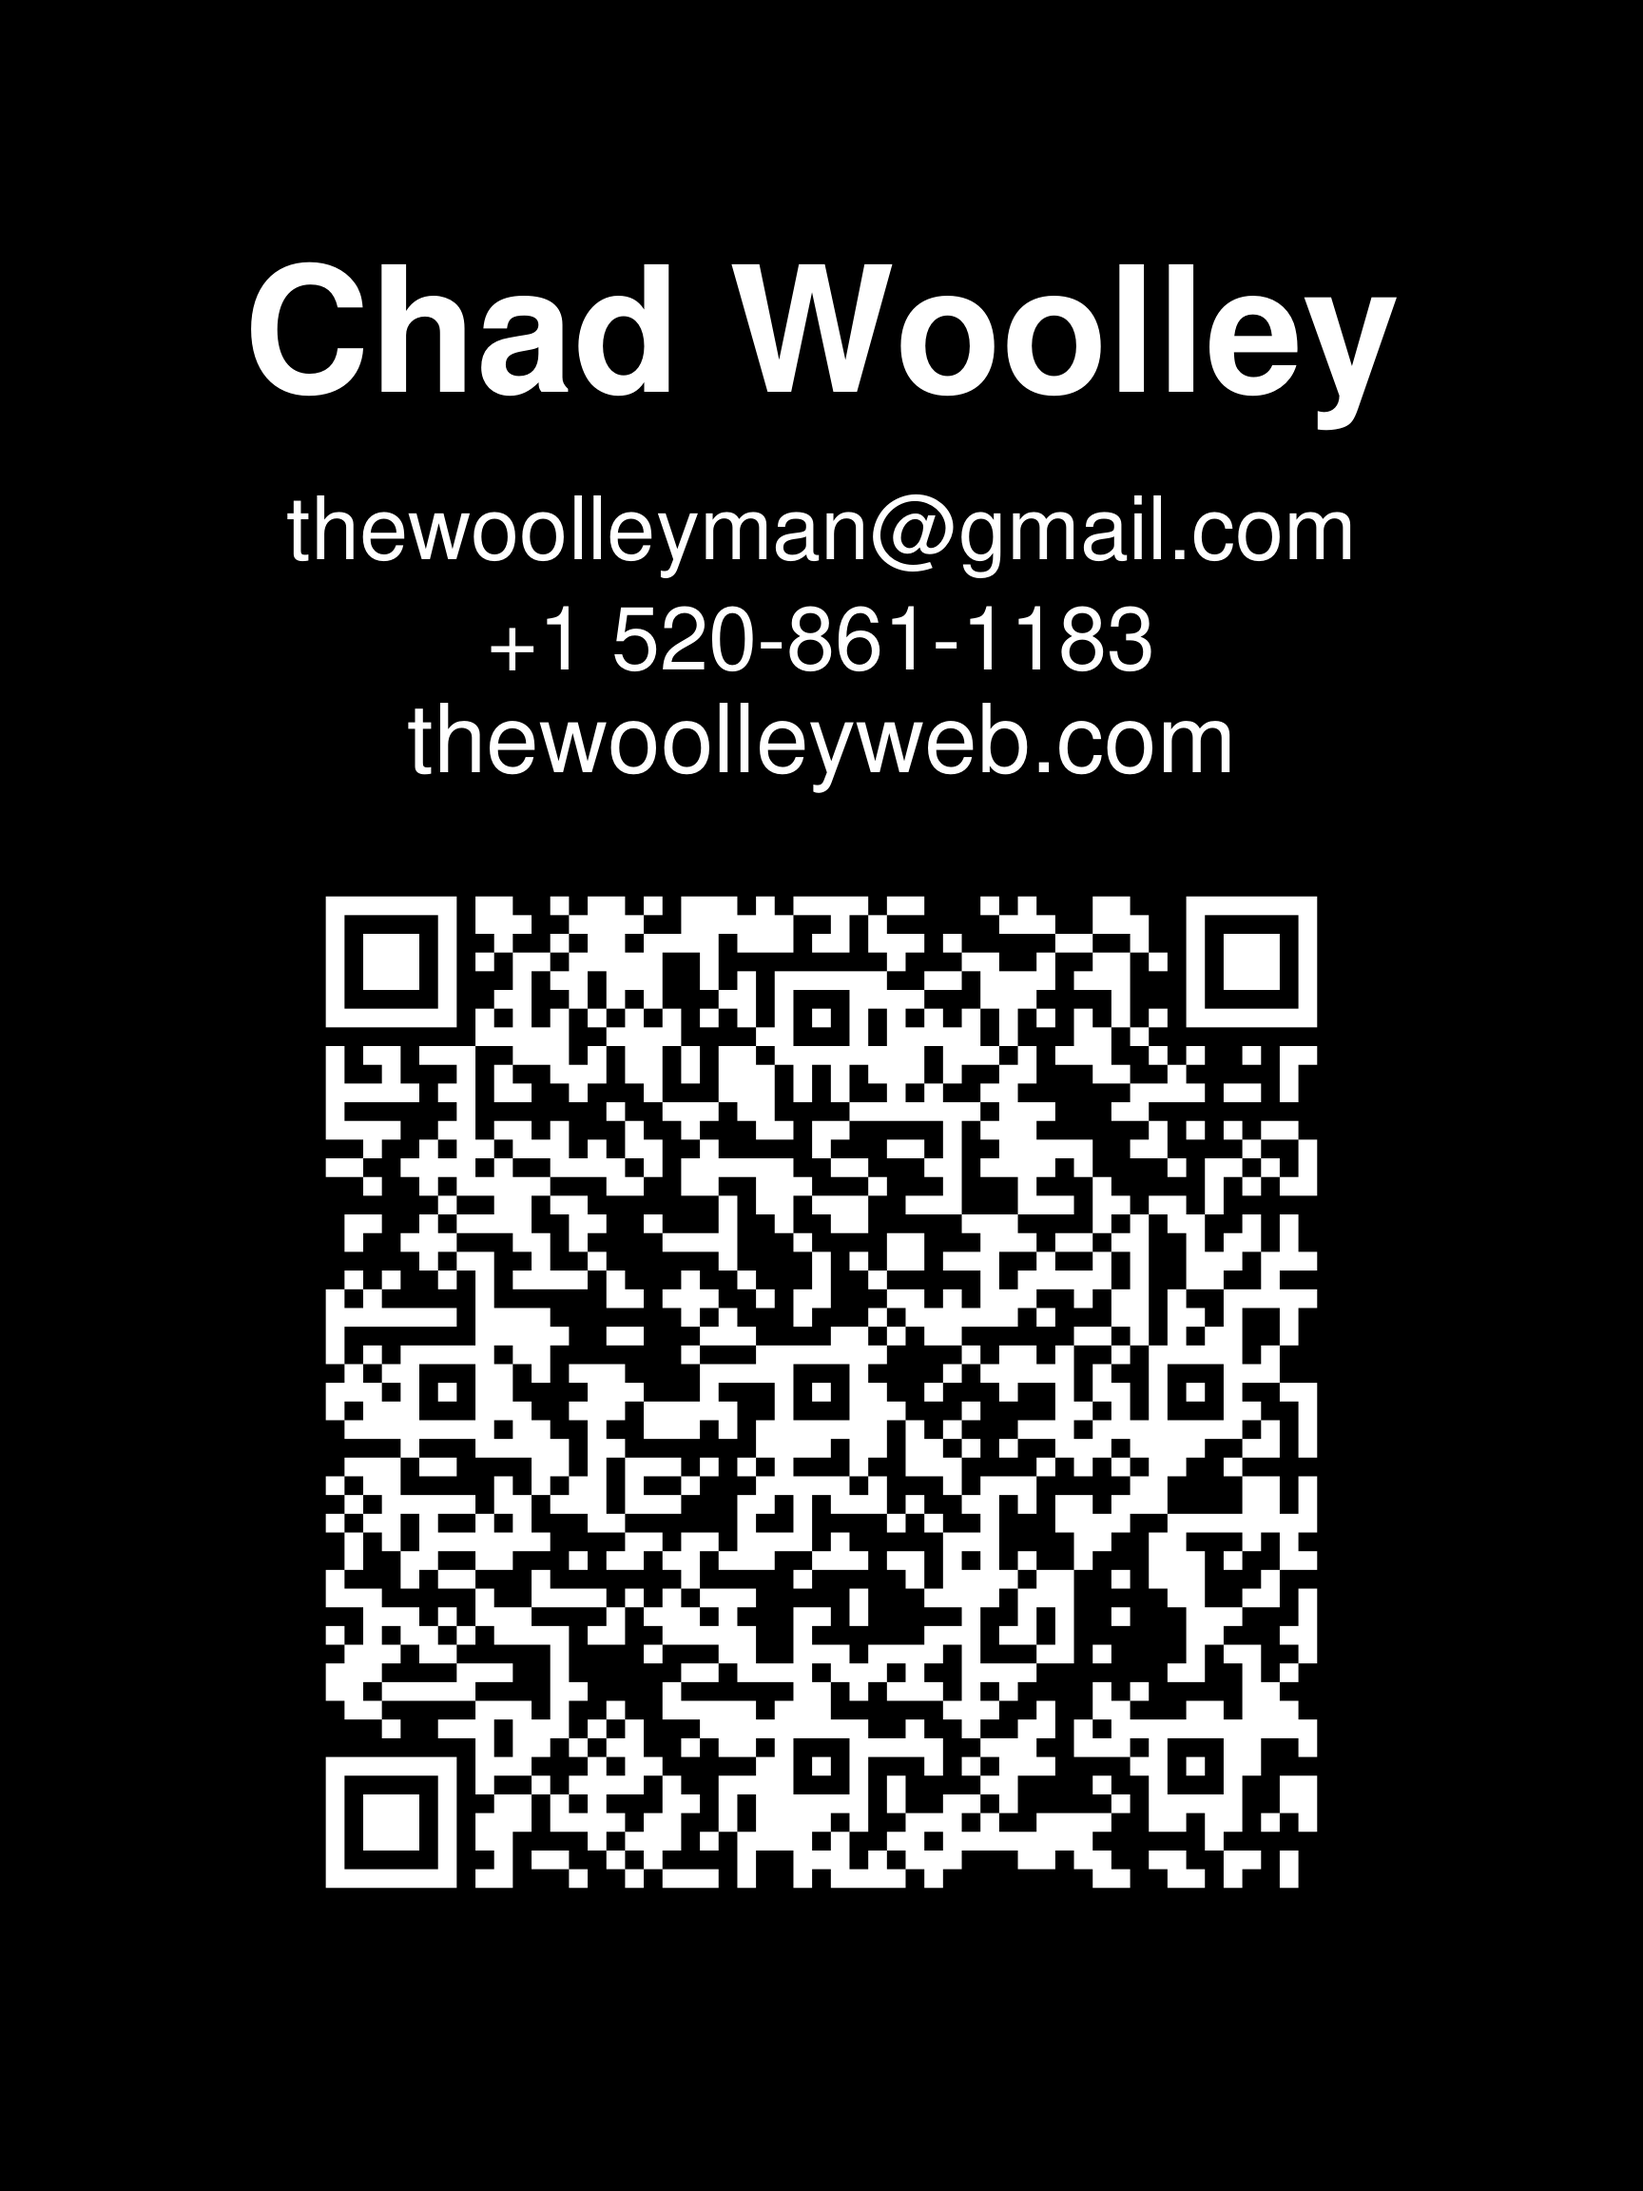
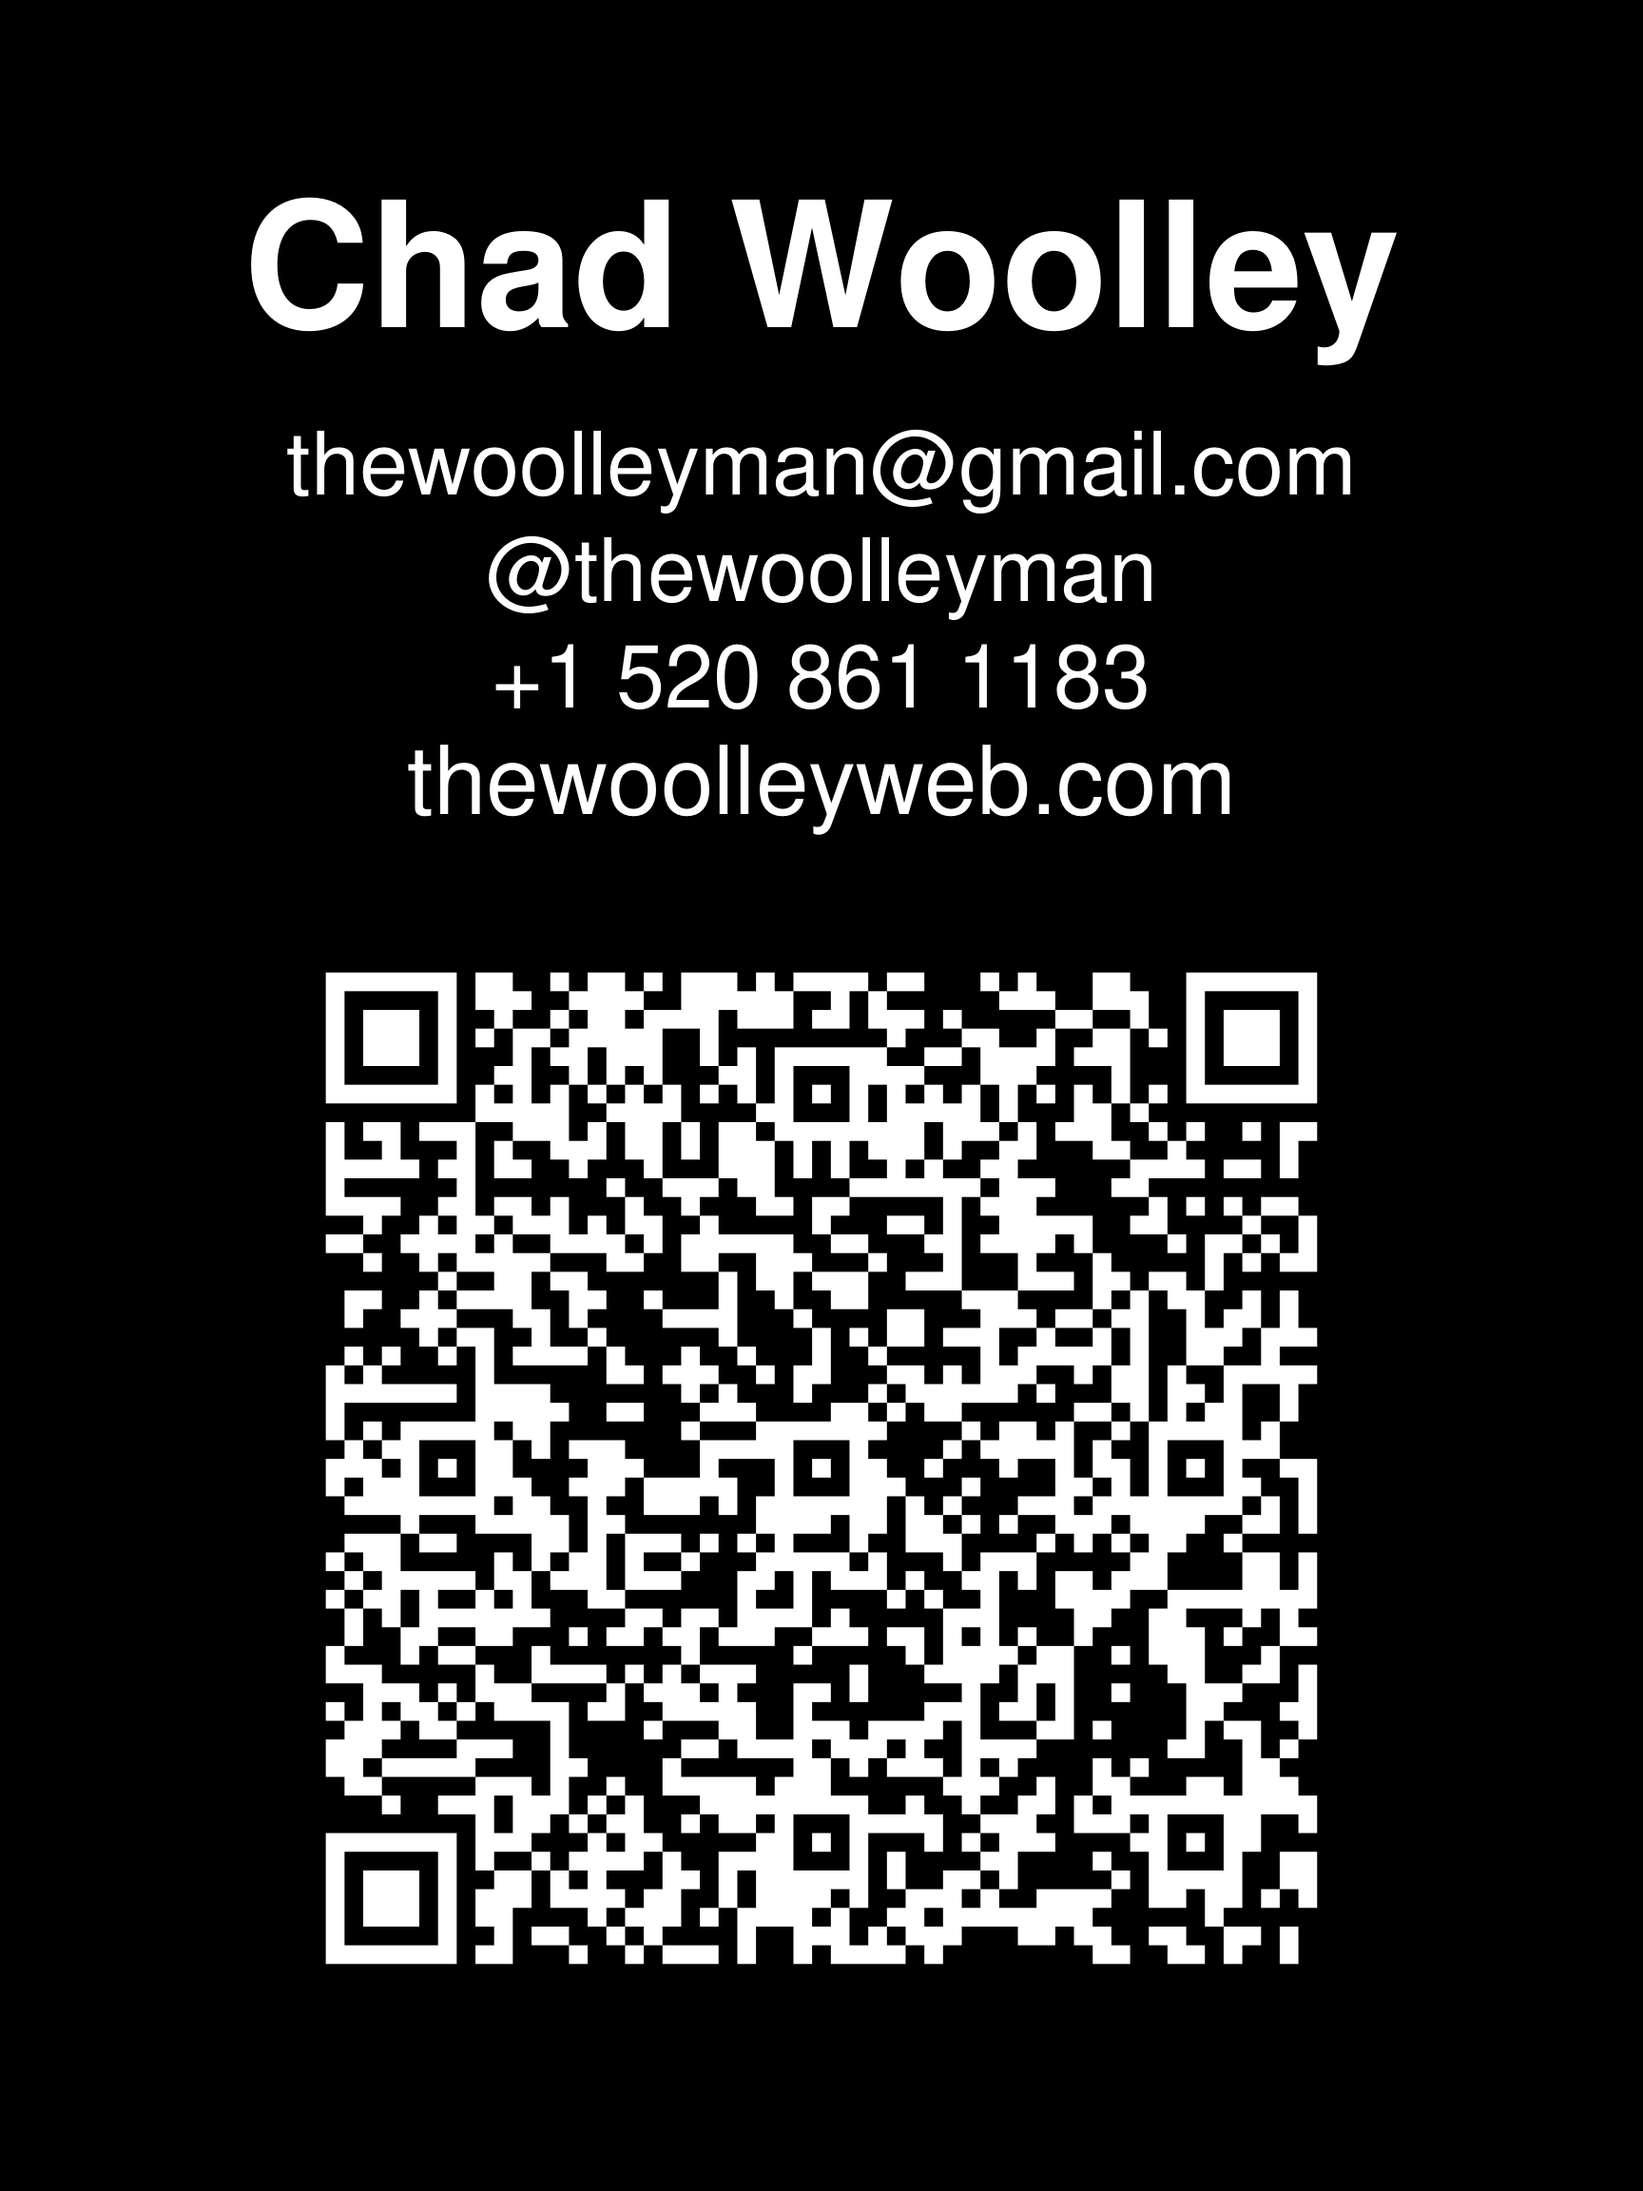
Add contact handle to active headers and refresh business card

Changed region(s): [[0.1875, 0.4062, 0.8125, 0.9062], [0.1562, 0.0938, 0.8438, 0.375]]

diff --git a/index.html b/index.html
@@ -30,7 +30,7 @@
 
       <div id="header" class="contact-header">
         <h1>Chad Woolley</h1>
-        <p class="contact-details"><a href="mailto:thewoolleyman@gmail.com">thewoolleyman@gmail.com</a> <nobr><a href="tel:+15208611183">520-861-1183</a></nobr> <a href="images/business-card-display.png" target="_blank" rel="noopener" title="Open business card in a new tab"><img class="contact-qr" src="images/vcard-qr-transparent-white.png" width="96" height="96" alt="Chad Woolley's contact QR code" /></a></p>
+        <p class="contact-details"><a href="mailto:thewoolleyman@gmail.com">thewoolleyman@gmail.com</a> @thewoolleyman <nobr><a href="tel:+15208611183">520-861-1183</a></nobr> <a href="images/business-card-display.png" target="_blank" rel="noopener" title="Open business card in a new tab"><img class="contact-qr" src="images/vcard-qr-transparent-white.png" width="96" height="96" alt="Chad Woolley's contact QR code" /></a></p>
       </div>
 
       <div id="content">

diff --git a/software-factory-practitioners-guide-versions.html b/software-factory-practitioners-guide-versions.html
@@ -29,7 +29,7 @@
 
       <div id="header" class="contact-header">
         <h1>Chad Woolley</h1>
-        <p class="contact-details"><a href="mailto:thewoolleyman@gmail.com">thewoolleyman@gmail.com</a> <nobr><a href="tel:+15208611183">520-861-1183</a></nobr> <a href="images/business-card-display.png" target="_blank" rel="noopener" title="Open business card in a new tab"><img class="contact-qr" src="images/vcard-qr-transparent-white.png" width="96" height="96" alt="Chad Woolley's contact QR code" /></a></p>
+        <p class="contact-details"><a href="mailto:thewoolleyman@gmail.com">thewoolleyman@gmail.com</a> @thewoolleyman <nobr><a href="tel:+15208611183">520-861-1183</a></nobr> <a href="images/business-card-display.png" target="_blank" rel="noopener" title="Open business card in a new tab"><img class="contact-qr" src="images/vcard-qr-transparent-white.png" width="96" height="96" alt="Chad Woolley's contact QR code" /></a></p>
       </div>
 
       <div id="content">
